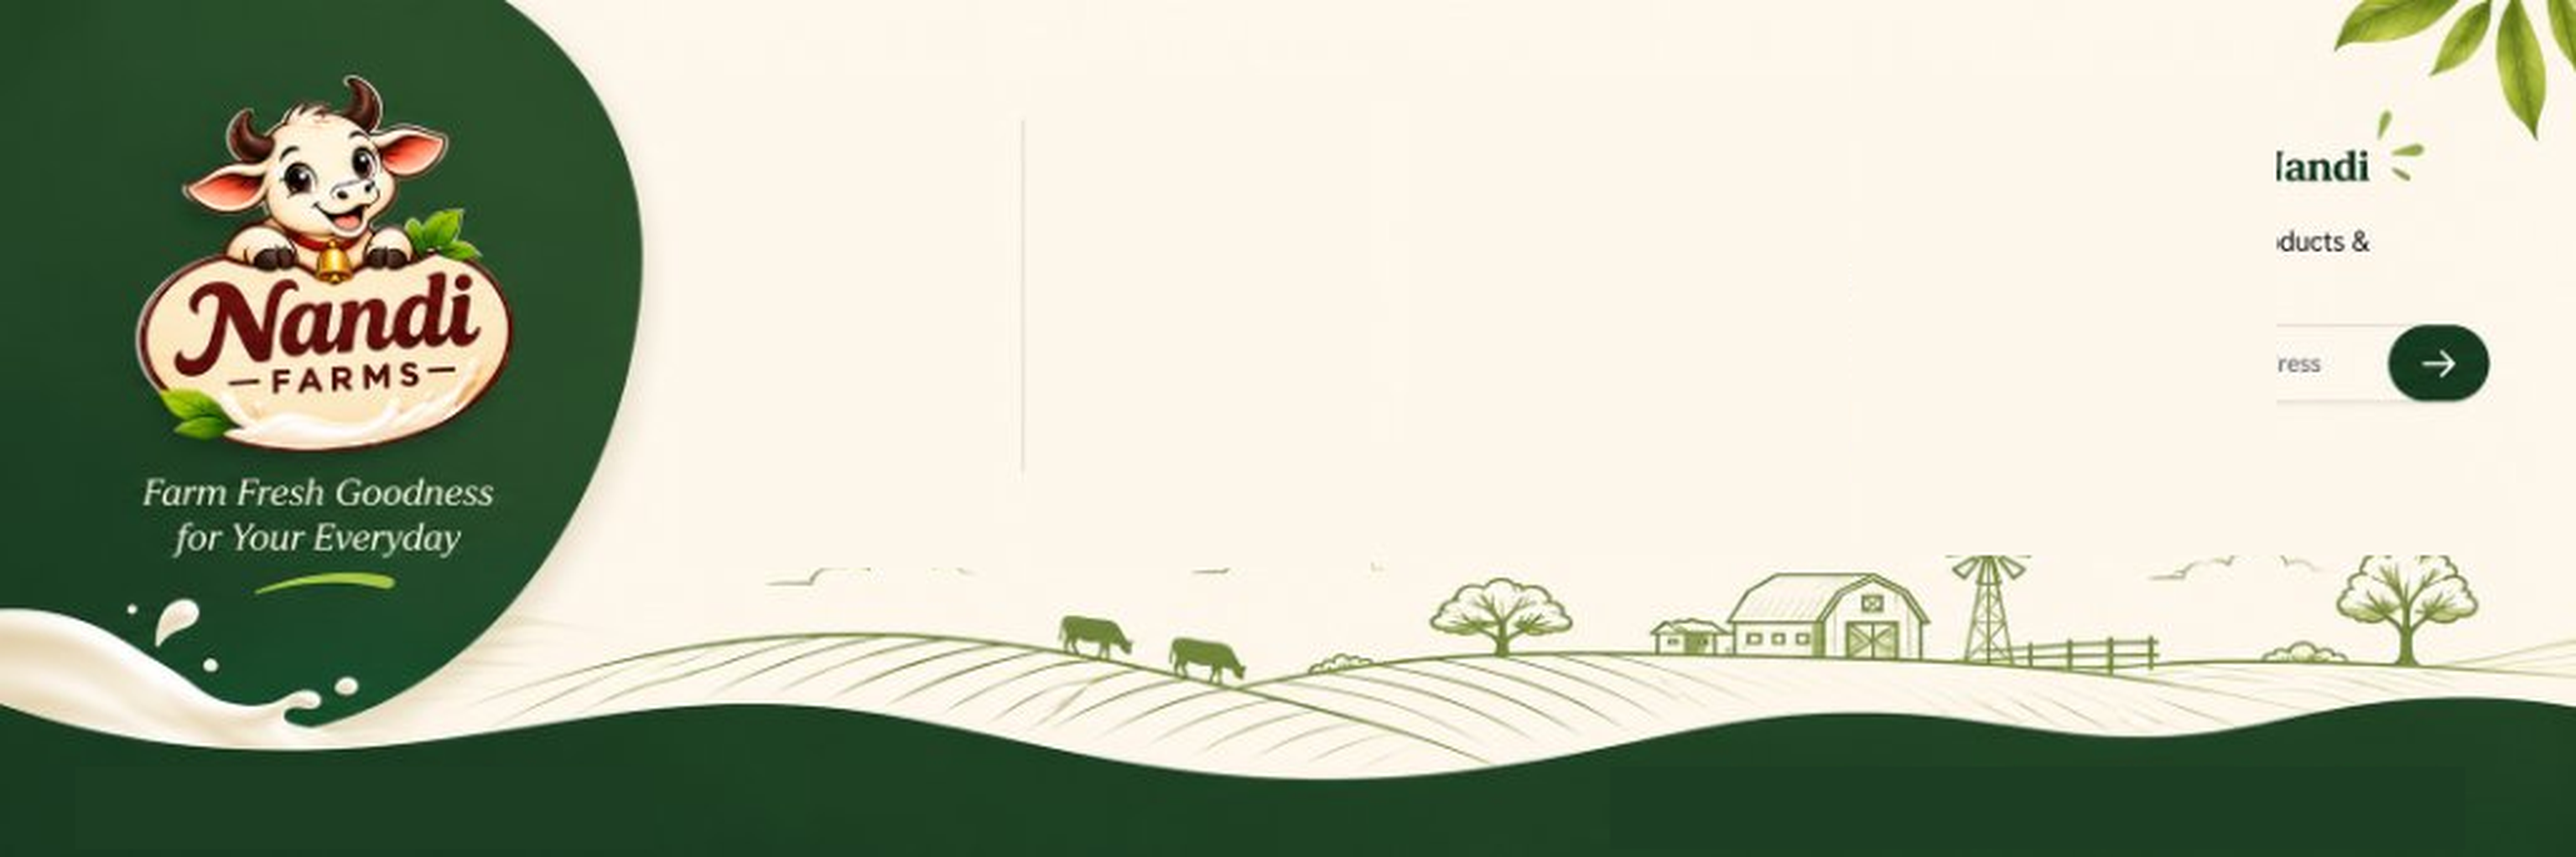
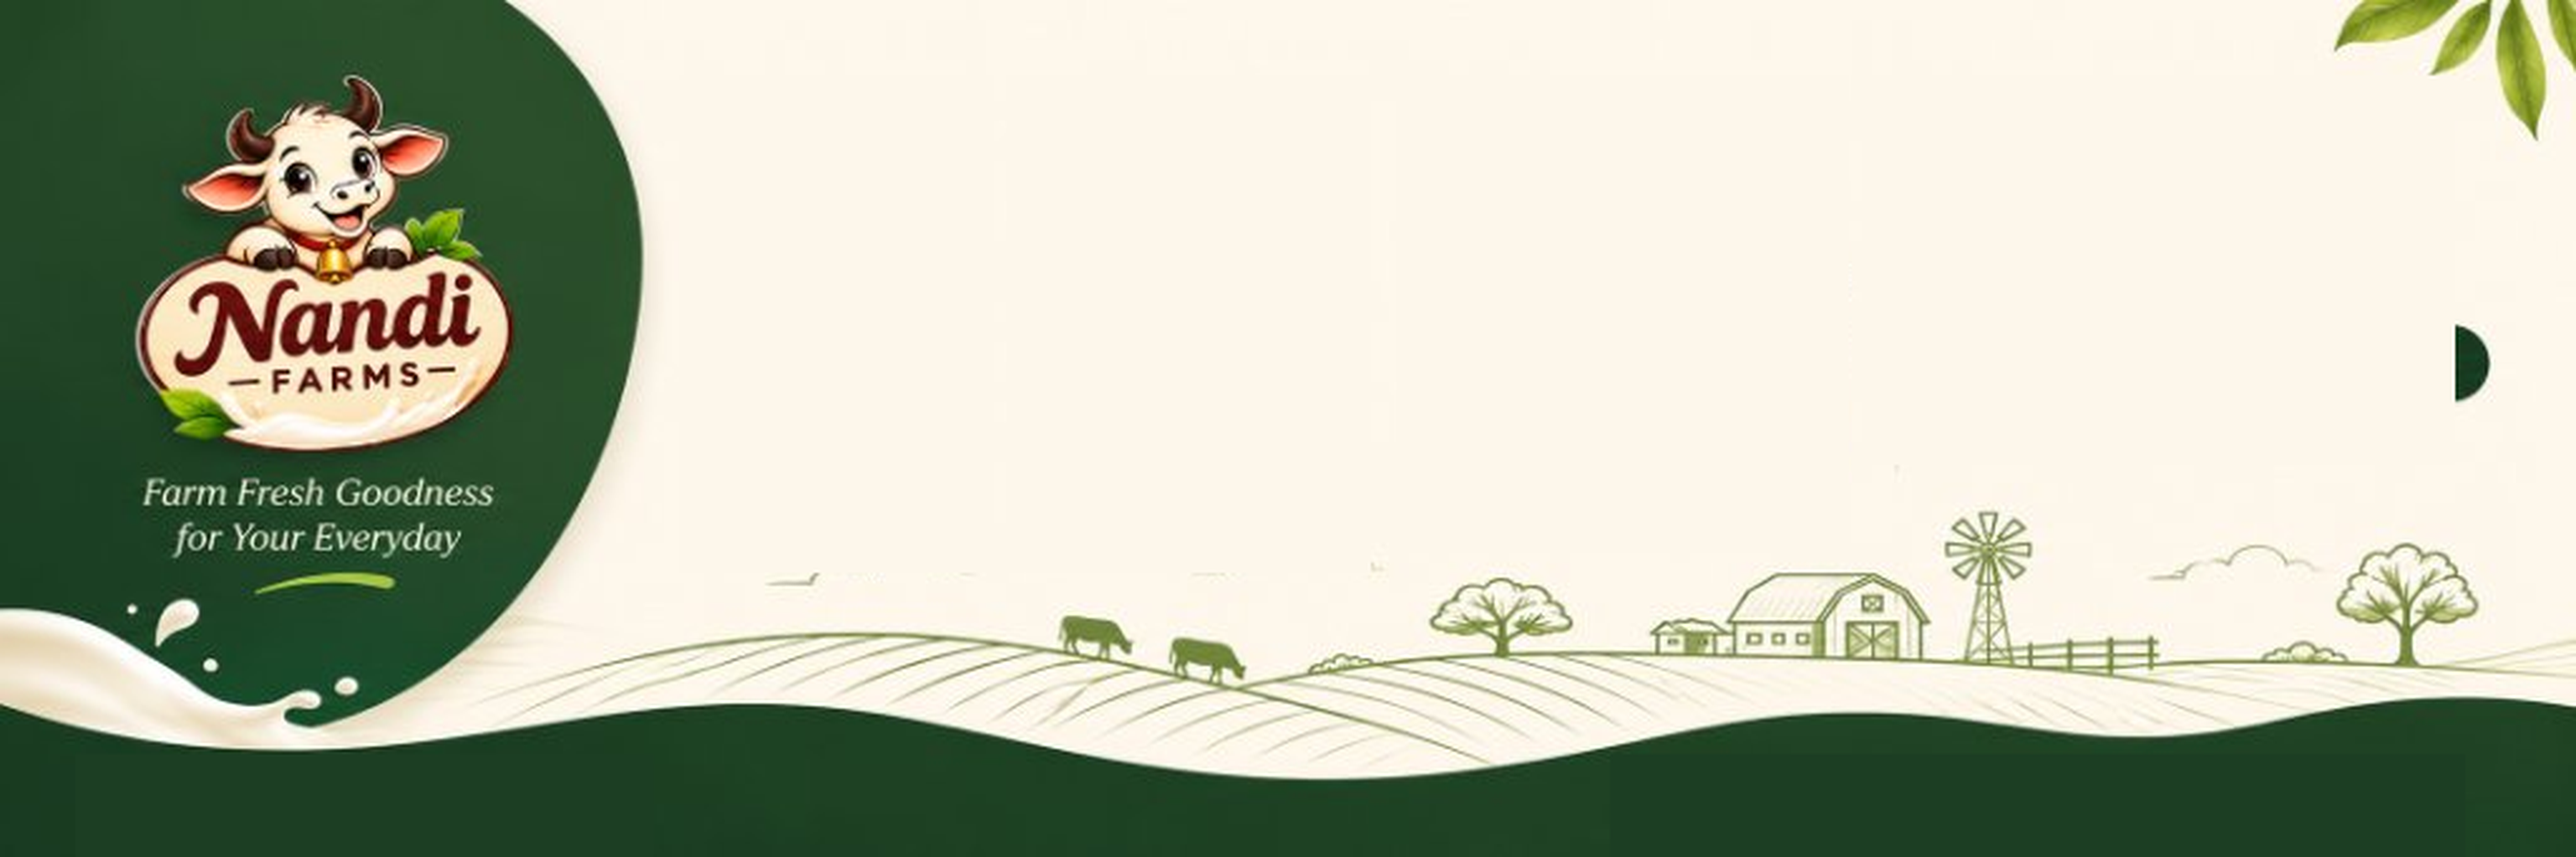
fix(footer): 100% remove ghost text & pill artifacts with clean cache-busted 4K asset

diff --git a/src/components/NandiFarmsFooter.tsx b/src/components/NandiFarmsFooter.tsx
@@ -58,7 +58,7 @@ export default function NandiFarmsFooter({
       {/* 1. 4K Panoramic Scenic Background Plate (Zero Baked-in Text) */}
       <div className="nandi-footer-bg" aria-hidden="true">
         <Image
-          src="/images/nandi-farms-footer-4k.png"
+          src="/images/nandi-farms-footer-clean-4k.png"
           alt="Nandi Farms Panoramic Scenic Background"
           fill
           priority
